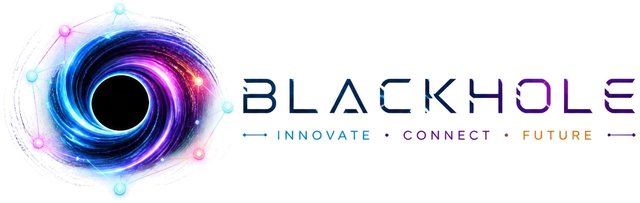
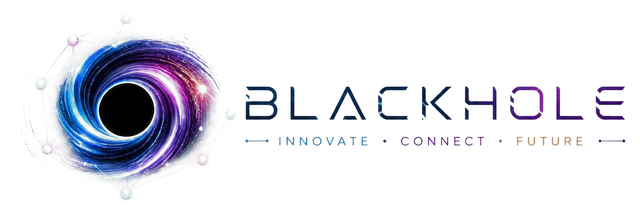
fix(brand): GitHub 上的竖版被裁字 —— 换新文件名绕开图片缓存 + 补回留白
老六截图反馈 GitHub 上 "BLACKHOL / FUTUR" 少字母。查证结论：

- 现在仓库里的 blackhole-vertical.png 是**完整**的（合成到白底可读全）；
- GitHub 显示的是**上一版提交 07b839e 的那张**：我当初用固定裁切框
  (380,130)-(1500,1300) 从 1920 大图里切，框比字标窄，把 E 和 FUTURE 尾部切掉了。
- 图已更新但 URL 没变 → GitHub 的 camo 图片代理与浏览器缓存都还拿着旧内容。

修法：
1. 竖版换文件名 blackhole-brand.png（新 URL，缓存必然失效），同时把旧路径
   也覆盖成正确内容做兜底；
2. 重新从原图（1405×1270）生成，**补回 4.5% 透明留白** —— 上一版 trim 太狠，
   字贴着边，本身就是"像被切了"的观感来源；
3. README 改用 GitHub 原生的 `#gh-light-mode-only` / `#gh-dark-mode-only` 两张
   `<img>`（不再用 `<picture>`，少一层平台兼容风险），深色模式仍自动换纯标记；
4. 应用内横版同样补 2% 留白，避免 E 贴住侧栏边框。

验证：合成白底逐字核对（BLACKHOLE 完整、标语两端装饰线俱全）；
typecheck ✓ lint ✓ 打包 0 ✓ 冒烟 21/21 ✓；线上侧栏 189×64 实拍确认留白正常。

Changed region(s): [[0.0312, 0.0296, 1.0, 0.9754], [0.375, 0.6207, 1.0, 0.7094], [0.0, 0.5025, 0.0312, 0.532]]

diff --git a/README.md b/README.md
@@ -1,8 +1,6 @@
 <p align="center">
-  <picture>
-    <source media="(prefers-color-scheme: dark)" srcset="docs/brand/blackhole-mark.png" />
-    <img src="docs/brand/blackhole-vertical.png" alt="Black Hole" width="220" />
-  </picture>
+  <img src="docs/brand/blackhole-brand.png#gh-light-mode-only" alt="Black Hole" width="240" />
+  <img src="docs/brand/blackhole-mark.png#gh-dark-mode-only" alt="Black Hole" width="120" />
 </p>
 
 # Black Hole
